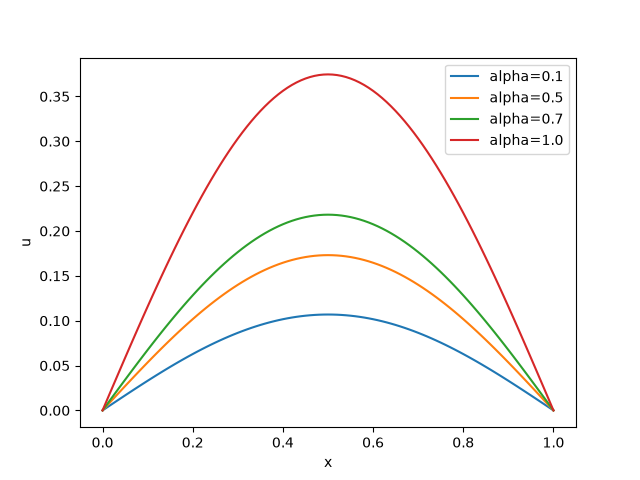
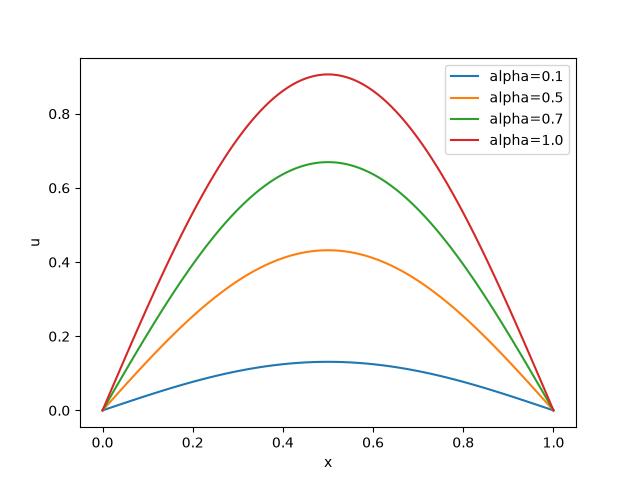
add 1d testing skripts

diff --git a/different_alphas_1d_test_error.py b/different_alphas_1d_test_error.py
@@ -8,7 +8,7 @@ from src.viz.render import plot
 import src.viz.extract as extract
 
 ALPHAS = [0.1, 0.5, 0.7, 1.0]
-FINAL_TIME = 0.01
+FINAL_TIME = 0.1
 N_SPASE = 100
 N_TIME = 100
 L_LENGTH = 1.0
@@ -24,14 +24,20 @@ for alpha in ALPHAS:
         bc_right=lambda t: 0.0,
     )
 
+    exact = FourierReference(
+        length=L_LENGTH, alpha=alpha, diffusion=DIFFUSION,
+        u0_fn=lambda c: np.sin(np.pi * c[0]),
+        mode="continuous",
+    )
+
     disc = Discretization(space=uniform_space(L_LENGTH, N_SPASE),
                 time=uniform_time(FINAL_TIME, N_TIME), stepper="implicit")
 
     sol = solve(problem, disc)
 
     plot(
-        extract.at(sol, FINAL_TIME),
-    ax, label=f"alpha={alpha}")
+        extract.error(sol, exact, FINAL_TIME),
+    ax, label=f"alpha={alpha}", linestyle='--')
 
 plt.legend()
-plt.savefig('plts/different_alphas_1d_test.png')
+plt.savefig('plts/different_alphas_1d_test_error.png')

diff --git a/tests/READTEST.md b/tests/READTEST.md
@@ -1,1 +1,1 @@
-Тесты будут. Когда нибудь
+Тесты будут. Когда нибудь...
